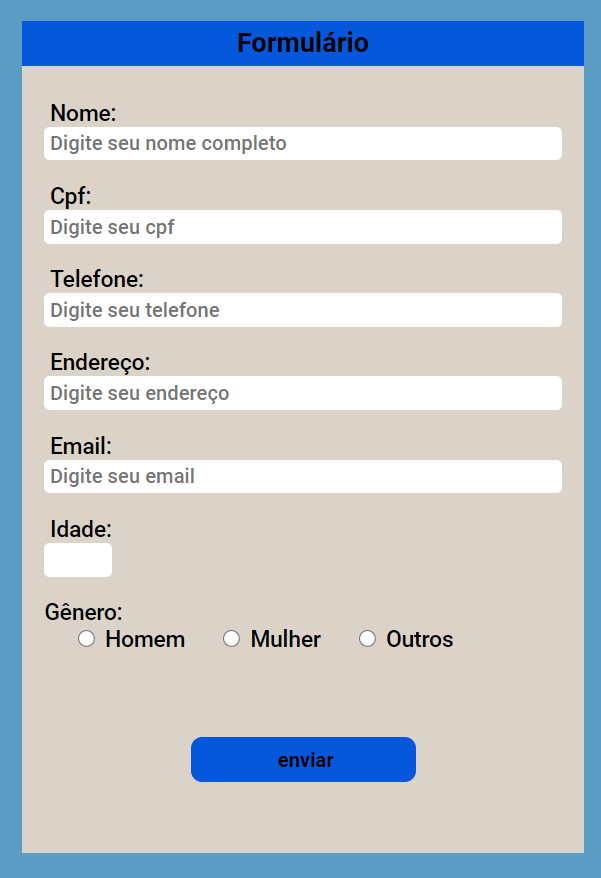
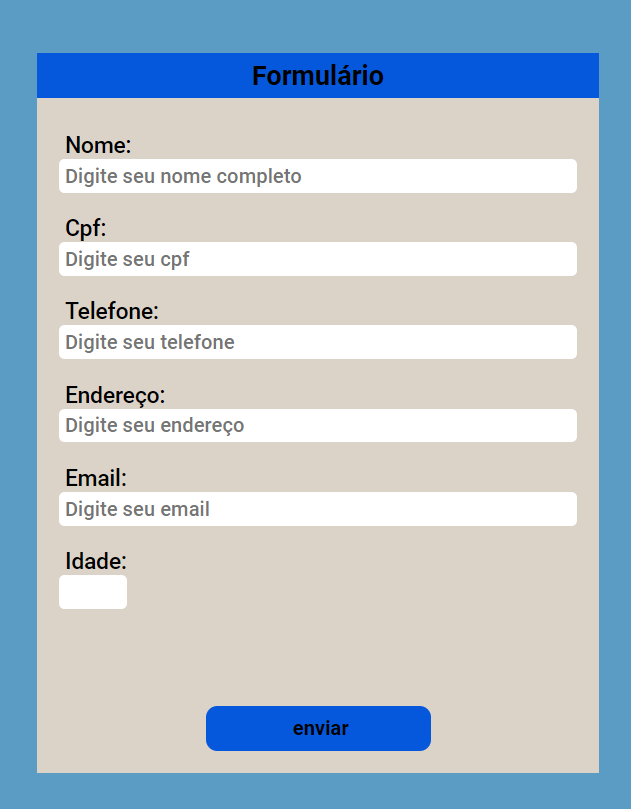
adicionando imagem no readme

diff --git a/app.js b/app.js
@@ -1,11 +1,3 @@
-// function validar() {
-//     const name = document.getElementById("name");
-
-//   if (name.value == "") {
-//     alert("Por favor,preencha com seu nome!");
-//     return
-//   }
-
 function validaForm(form) {
   if (
     form.name.value == "" ||
@@ -43,14 +35,14 @@ function validaForm(form) {
     return false;
   }
 
-  if(form.email.value.indexOf("@") == -1 ||
-  form.email.value.indexOf(".") == -1 ||
-  form.email.value == "" ||
-  form.email.value == null) {
-    alert("Por favor, indique um e-mail válido.");
-    form.email.focus();
-    return false;
-}
+   if(form.email.value.indexOf("@") == -1 ||
+      form.email.value.indexOf(".") == -1 ||
+      form.email.value == "" ||
+      form.email.value == null) {
+        alert("Por favor, indique um e-mail válido.");
+        form.email.focus();
+        return false;
+    }
 
   if (
     form.age.value == "" ||
@@ -61,15 +53,5 @@ function validaForm(form) {
     return false;
   }
 
-  if (
-    form.genre.value == "" ||
-    form.genre.value == null 
-  ) {
-    alert("Por favor, escolha seu gênero");
-    form.genre.focus();
-    return false;
-  }
-
- 
-      
+    
 }

diff --git a/style.css b/style.css
@@ -2,7 +2,7 @@
   margin: 0;
   padding: 0;
   box-sizing: border-box;
-  font-family: 'Roboto', sans-serif;
+  font-family: "Roboto", sans-serif;
 }
 
 .container {
@@ -18,8 +18,7 @@
 form {
   background-color: #dbd3c8;
   width: 500px;
-  height: 700px;
-  
+  height: 600px;
 }
 
 .container-form {
@@ -54,12 +53,8 @@ label {
   margin-left: 5px;
 }
 
-p {
-  font-size: 20px;
-}
-
 .list input {
-  margin-left: 30px;
+  margin: 15px 0 25px 30px;
   border-radius: 50px;
   font-size: 10px;
   height: 15px;
@@ -68,7 +63,7 @@ p {
 
 #submit {
   background-color: #0557db;
-  margin: 60px auto;
+  margin: 0px auto;
   height: 40px;
   width: 200px;
   display: block;
@@ -85,13 +80,7 @@ input:hover {
   opacity: 0.5;
 }
 
- input #date {
-  font-size: 30px;
-}
-
 .age {
   width: 60px;
   display: block;
 }
-
-

diff --git a/index.html b/index.html
@@ -80,18 +80,8 @@
             <label for="age">Idade:</label>
             <input class="age" type="number" id="age" min="18" />
           </div>
-          <div>
-            <p>Gênero:</p>
-            <div id="genre" class="list">
-              <input type="radio" id="female" name="genre" />
-              <label for="female">Homem</label>
-
-              <input type="radio" id="male" name="genre" />
-              <label for="male">Mulher</label>
-
-              <input type="radio" id="others" name="genre" />
-              <label for="others">Outros</label>
-            </div>
+          
+            
           </div>
           <input type="submit" value="enviar" id="submit" />
         </div>
